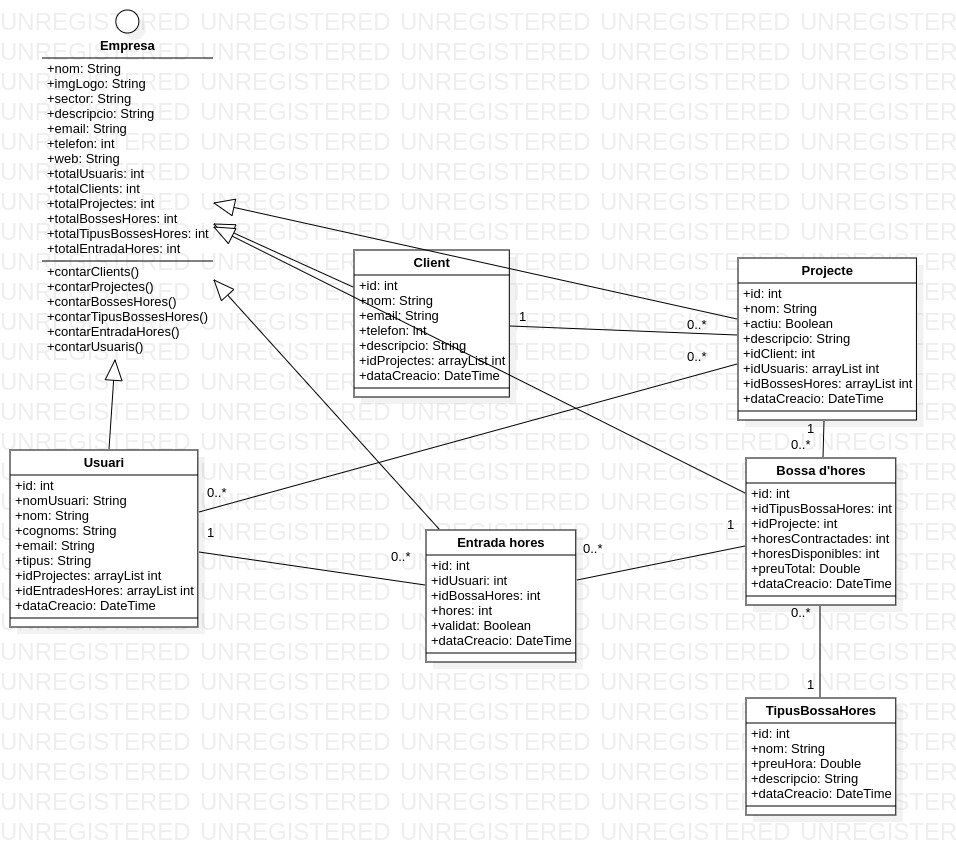
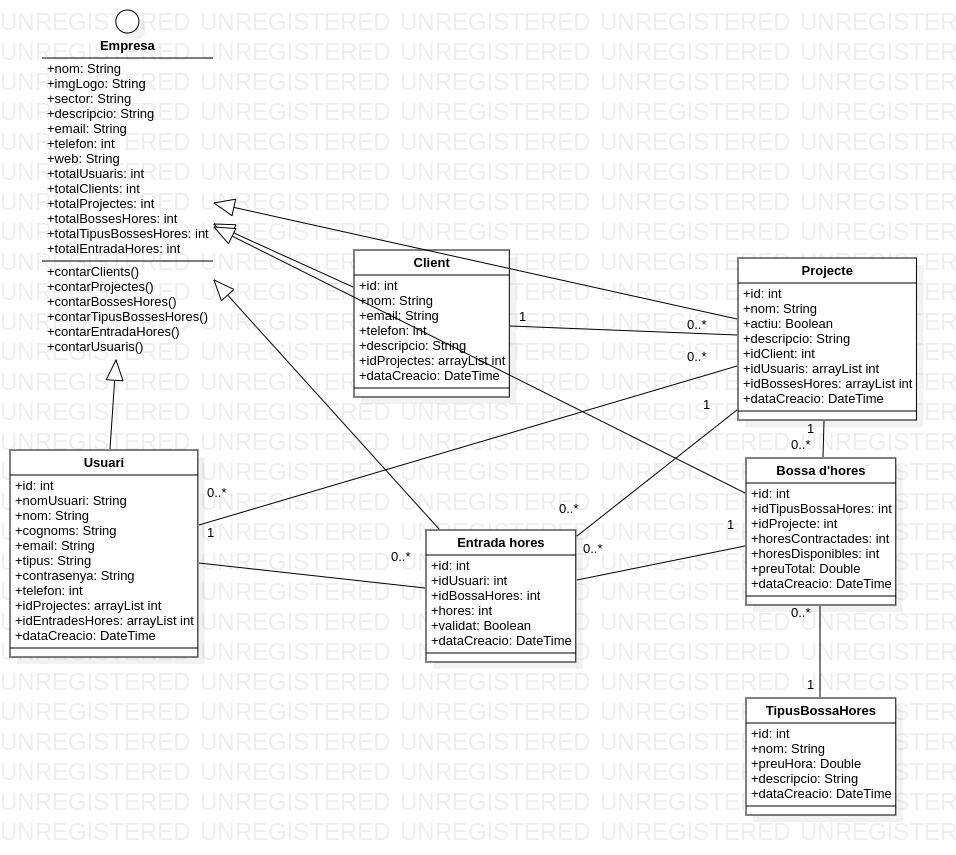
adjunto diagrama de clases modificat i migracions modificades

diff --git a/database/migrations/2021_04_01_160948_create_hours_entry_table.php b/database/migrations/2021_04_01_160948_create_hours_entry_table.php
@@ -15,8 +15,8 @@ class CreateHoursEntryTable extends Migration
     {
         Schema::create('hours_entry', function (Blueprint $table) {
             $table->id('id');
-            $table->unsignedBigInteger('user_id');
-            $table->foreign('user_id')->references('id')->on('users');
+            $table->unsignedBigInteger('user_project_id');
+            $table->foreign('user_project_id')->references('id')->on('users_projects');
             $table->unsignedBigInteger('bag_hours_id');
             $table->foreign('bag_hours_id')->references('id')->on('bag_hours');
             $table->integer('hours');

diff --git a/database/migrations/2021_04_01_155604_create_users_projects_table.php b/database/migrations/2021_04_01_155604_create_users_projects_table.php
@@ -14,11 +14,12 @@ class CreateUsersProjectsTable extends Migration
     public function up()
     {
         Schema::create('users_projects', function (Blueprint $table) {
+            $table->bigIncrements('id');
             $table->unsignedBigInteger('user_id');
             $table->foreign('user_id')->references('id')->on('users');
             $table->unsignedBigInteger('project_id');
             $table->foreign('project_id')->references('id')->on('projects');
-            $table->primary(['user_id', 'project_id']);
+            $table->timestamps();
         });
     }
 
